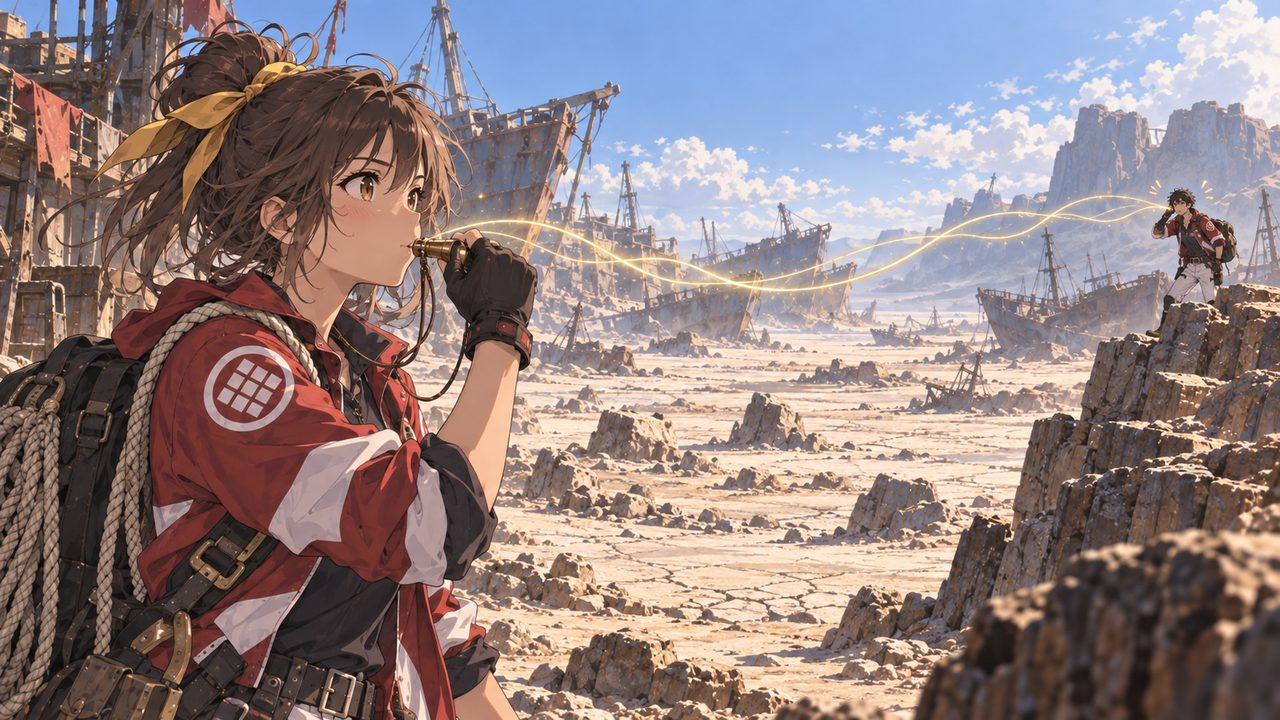
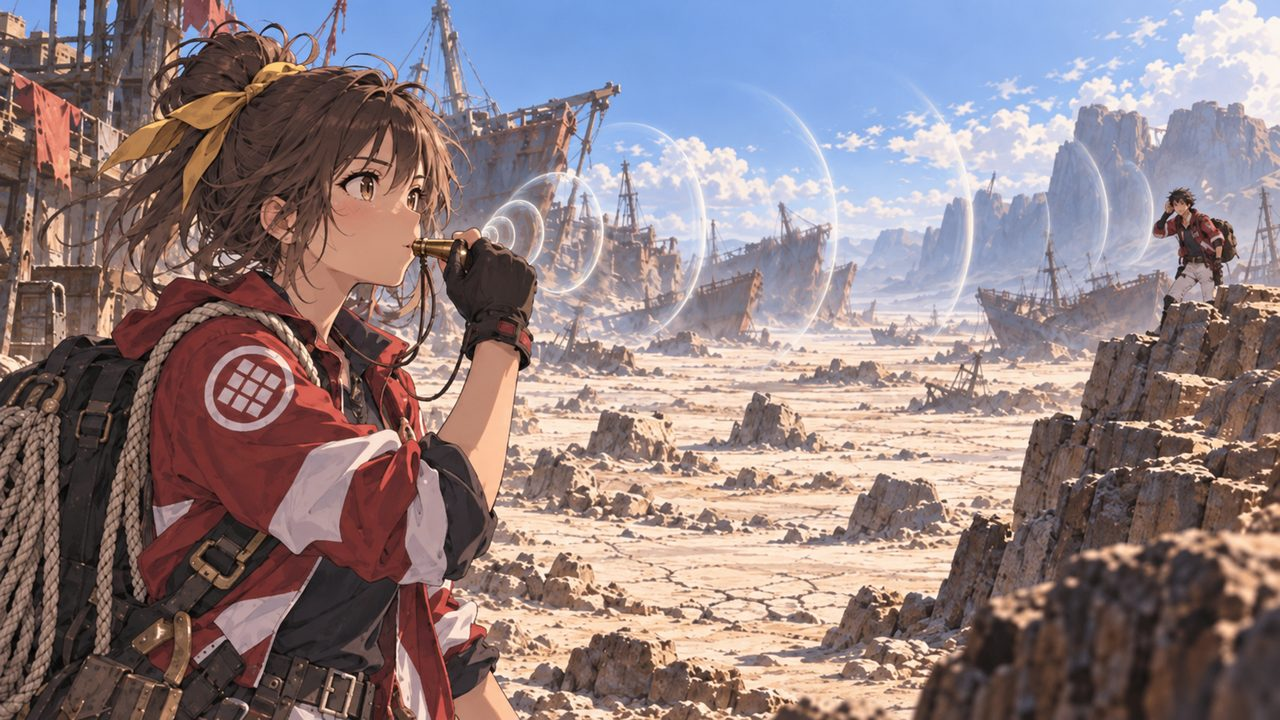
潮の決まりに合わせて絵を描き直す：綱切り・呼び笛・暮らしの道具・世界を流れる潮（ふつうの人の潮は糸に見えない）

diff --git a/index.html b/index.html
@@ -419,7 +419,7 @@ footer .links a:hover{color:var(--teal)}
       <h2 class="fx">世界に流れる、「潮」と「糸」</h2>
       <p class="thr-lead fx">海は消えた。けれど、海の名残の力「潮（しお）」は、いまも世界に流れている。<br>ふだんは目に見えない。強い潮を紡いだときだけ、それは「糸」のように見える。</p>
       <div class="thr">
-        <article class="it fx"><img width="1280" height="720" src="assets/img/ito_world.jpg" alt="世界を流れる、火・水・風・土の四つの潮" loading="lazy"><div class="body"><h3>火・水・風・土、四つの潮</h3><p>土地にも、人の体にも、潮は満ちている。火の潮、水の潮、風の潮、土の潮。魔法使いは、強い潮を糸に紡いで、形にする。</p></div></article>
+        <article class="it fx"><img width="1280" height="720" src="assets/img/ito_world.jpg" alt="魔法使いの手もとで、四つの潮が糸に紡がれ、遠くでは淡い流れにほどけていく" loading="lazy"><div class="body"><h3>火・水・風・土、四つの潮</h3><p>土地にも、人の体にも、潮は満ちている。火の潮、水の潮、風の潮、土の潮。魔法使いは、強い潮を糸に紡いで、形にする。</p></div></article>
         <article class="it fx"><img width="1280" height="720" src="assets/img/ito_borrow.jpg" alt="潮を借りて、糸に紡いで、返す魔法使い" loading="lazy"><div class="body"><h3>借りて、紡いで、返す</h3><p>潮はほんの少しだけ借りて、糸に紡ぎ、使い終えたらほどいて返す。だから、水は作れない。あるところから借りて、動かすだけ。</p></div></article>
         <article class="it fx"><img width="1280" height="720" src="assets/img/ito_jin.jpg" alt="潮の流れが、ジンだけを避けていく" loading="lazy"><div class="body"><h3>ジンには、潮が満ちない</h3><p>生まれつき、少年の体には潮が満ちない。救助屋の道具は、潮を通して強くするものばかり。だから彼は、いつまでも「見習い」のまま。</p></div></article>
         <article class="it fx"><img width="1280" height="720" src="assets/img/ito_net.jpg" alt="親方が、金色の糸で網を編む" loading="lazy"><div class="body"><h3>「ありがとう」は、借りた潮を返すこと</h3><p>助けられた人の「ありがとう」は、借りた潮を返すこと。潮を糸にできる救助屋の親方が、それを一目ずつ網に編む。</p></div></article>
@@ -434,10 +434,10 @@ footer .links a:hover{color:var(--teal)}
       </article>
       <div class="how">
         <article class="fx"><img width="1280" height="720" src="assets/img/how_tsunagiri.jpg" alt="救助屋の若者が、息にのせて潮を刃先へ送り、固い縄を切る" loading="lazy"><div class="body"><h4>綱切り</h4><p class="how-s">潮を刃先へ、一太刀で。</p><p>救助屋の短い刃物。息にのせて、握りから刃先へ潮を送ると、固い縄でも一太刀で切れる。からまった綱から、人を傷つけずに助け出すための道具。</p></div></article>
-        <article class="fx"><img width="1280" height="720" src="assets/img/how_yobibue.jpg" alt="少女が呼び笛を吹くと、音が荒野の向こうの仲間へ届く" loading="lazy"><div class="body"><h4>呼び笛</h4><p class="how-s">潮にのせて、遠くまで。</p><p>首から下げる小さな笛。潮を通して鳴らすと、岩場や船の向こうにいる遠くの仲間の耳もとまで届く。救助の合図に使う。</p></div></article>
+        <article class="fx"><img width="1280" height="720" src="assets/img/how_yobibue.jpg" alt="少女が呼び笛を吹くと、淡い音の波紋が荒野の向こうの仲間へ届く" loading="lazy"><div class="body"><h4>呼び笛</h4><p class="how-s">潮にのせて、遠くまで。</p><p>首から下げる小さな笛。潮を通して鳴らすと、岩場や船の向こうにいる遠くの仲間の耳もとまで届く。救助の合図に使う。</p></div></article>
         <article class="fx"><img width="1280" height="720" src="assets/img/how_ami.jpg" alt="町の人々の「ありがとう」が金の糸になり、親方の網に編み込まれていく" loading="lazy"><div class="body"><h4>網</h4><p class="how-s">潮を糸にできる人の、仕事。</p><p>助けられた人の「ありがとう」を、潮を糸にできる親方が、一目ずつ網に編み込む。救助屋の親方は、代々そういう人から選ばれ、ひとつの言いつけを受け継いできた。「網を大きくしろ。絶やすな」――わけは、だれも知らない。</p></div></article>
       </div>
-      <p class="thr-lead fx" style="margin-top:18px;font-size:.85rem;opacity:.7">※ 絵の中の金の光は、ふだんは目に見えない潮の流れを描いたものです。</p>
+      <p class="thr-lead fx" style="margin-top:18px;font-size:.85rem;opacity:.7">※ 絵の中の淡い光は、ふだんは目に見えない潮の流れを描いたものです。</p>
     </div>
   </section>
 
